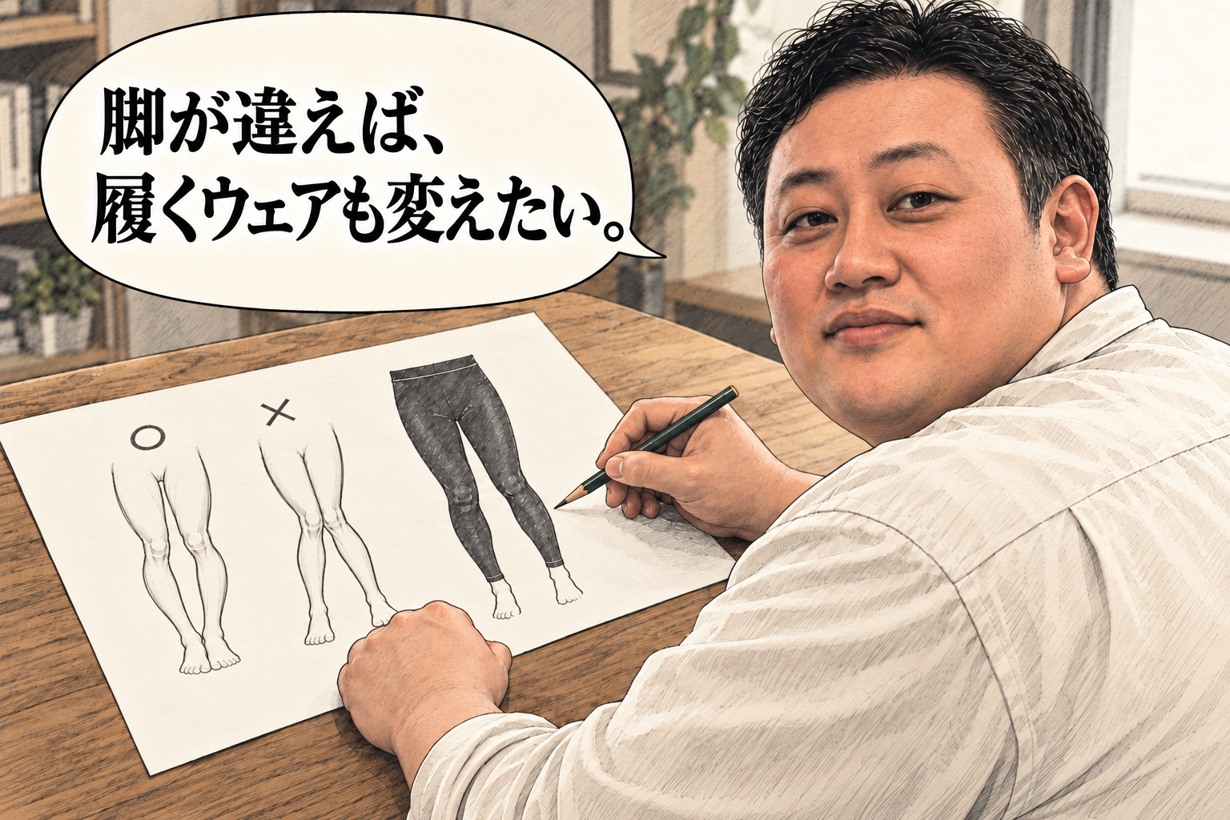
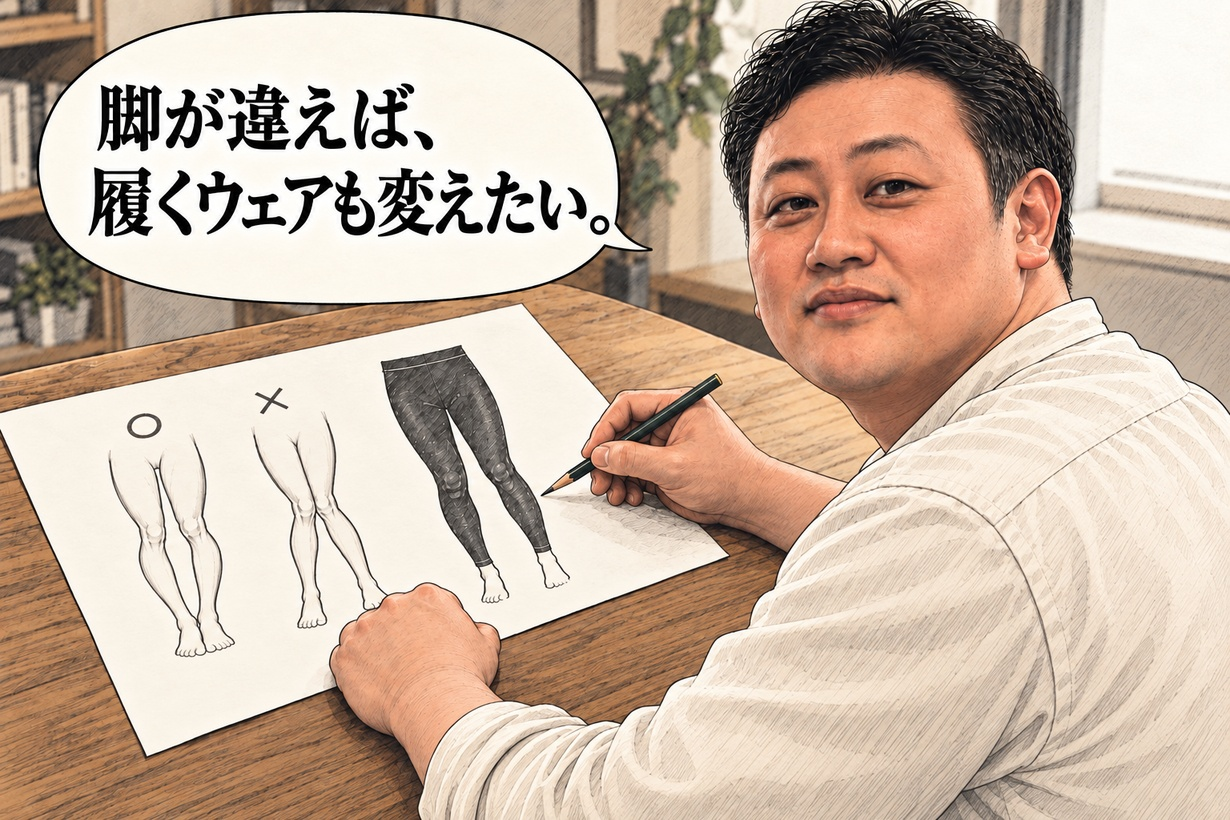
Refine founder likeness and emphasize preview headline

diff --git a/index.html b/index.html
@@ -1,1 +1,1 @@
-<!doctype html><html lang="ja"><head><meta charset="utf-8"><meta name="viewport" content="width=device-width,initial-scale=1"><meta name="robots" content="noindex,nofollow,noarchive"><title>O脚には、O脚のための設計を。解放テーピングスパッツ</title><link rel="stylesheet" href="style.css?v=v10-e3bf2f7"></head><body><div class="draft">確認用｜Makuake掲載イメージ案 </div><header class="site-header"><div><img class="makuake-logo" src="assets/makuake-logo.png?v=v10-e3bf2f7" alt="Makuake"><span>掲載プレビュー</span></div><a href="#returns">リターンを見る</a></header><main><div class="project-top"><div class="project-media"><img class="hero" src="submission/kv/01.jpg" alt="O脚じゃない人は見ないでください。解放テーピングスパッツ"><div class="gallery"><a href="submission/kv/01.jpg"><img src="submission/kv/01.jpg" alt="プロジェクト画像1"></a><a href="submission/kv/02.jpg"><img src="submission/kv/02.jpg" alt="プロジェクト画像2"></a><a href="submission/kv/03.jpg"><img src="submission/kv/03.jpg" alt="プロジェクト画像3"></a><a href="submission/kv/04.jpg?v=v10-e3bf2f7"><img src="submission/kv/04.jpg?v=v10-e3bf2f7" alt="プロジェクト画像4"></a><a href="submission/kv/05.jpg"><img src="submission/kv/05.jpg" alt="プロジェクト画像5"></a><a href="submission/kv/06.jpg"><img src="submission/kv/06.jpg" alt="プロジェクト画像6"></a></div></div><div class="project-summary"><div class="category">プロダクト　／　機能性ウェア</div><h1>O脚には、<span class="keep-phrase">O脚のための設計を。</span><br>解放テーピングスパッツ</h1><div class="tags"><span>＃テーピング</span><span>＃スポーツ</span><span>＃暮らし</span></div><div class="creator"><span class="creator-mark">K</span><div><small>プロジェクト実行者</small><b>KAIHOUz</b></div></div><a class="outline-link" href="#returns">リターンの内容を見る</a><p class="preview-note">掲載イメージの確認用です。応援購入は受け付けていません。</p></div></div><nav class="project-nav"><a class="current" href="#story">プロジェクト</a><a href="#origin">実行者の想い</a><a href="#returns">リターン</a></nav><div class="native" id="story"><h2>ストーリー</h2><ol><li><span>O脚・X脚に合わせた設計。<span class="keep-phrase">履くテーピングで、脚を支える。</span></span></li><li><span>貼る手間なく、履くだけ。<span class="keep-phrase">黒一色</span>で普段の服にもなじみ、運動や外出にも。</span></li><li><span>日本代表チームのサポートを経験。JOC医科学強化スタッフ・宮内政人氏が監修。</span></li></ol></div><article><section id="intro" class="section intro"><img class="full" src="submission/body-images/discovery-01.jpg" alt="O脚とX脚の形の違い。" loading="lazy"><div class="prose bridge"><h2>脚の形や動きに合わせて、<br>支え方も変わります。</h2><p>競技や施術の現場では、一人ひとりの脚に合わせてテーピングを行います。</p></div><img class="full" src="submission/body-images/sport-context.jpg" alt="競技場脇でトレーナーが選手にテーピングを行うイメージ。" loading="lazy"><img class="story expert-01" src="submission/body-images/expert-01.jpg" alt="トレーナーが男性の脚を見る。" loading="lazy"><img class="story expert-02" src="submission/body-images/expert-02.jpg" alt="脚にテープを沿わせて支える。" loading="lazy"><div class="prose bridge daily-bridge"><h2>でも、毎日の生活で<br>続けるとなると…</h2></div><img class="story work-late" src="submission/body-images/work-late.jpg" alt="仕事が延び、予約時刻に間に合わない。" loading="lazy"><img class="story tape-uncertain" src="submission/body-images/tape-uncertain.jpg" alt="自宅でテープを持つが、貼る位置が分からず手が止まる。" loading="lazy"><img class="full" src="submission/body-images/discovery-04.jpg" alt="その支え方を、履く一着に。解放テーピングスパッツ。" loading="lazy"></section><section id="o-design" class="section o-design"><img class="full" src="submission/body-images/structure.jpg" alt="テーピングの配置を光の線で可視化した構造図。" loading="lazy"><div class="prose"><p>O脚用とX脚用、それぞれの脚の形に合わせたテーピング設計。膝まわりだけでなく、脚全体を支えます。</p><p>段階着圧と吸水速乾を、一着に。いつもの服の下に履いて、普段使いにも運動にも。</p></div></section><section id="expert" class="section expert"><img class="full" src="submission/body-images/feature-04.jpg?v=v10-e3bf2f7" alt="JOC医科学強化スタッフ・宮内政人氏の写真と監修紹介。" loading="lazy"><div class="prose"><p>大宮名倉堂接骨院代表。日本オリンピック委員会（JOC）医科学強化スタッフとして、日本代表チームなどをサポートしてきました。</p><p>2026年度はスカッシュ日本代表の強化スタッフ（トレーナー）としても活動。その手技を求め、遠方から来院する方も多い宮内氏の知見を、脚の形に合わせた設計に生かしました。</p></div></section><section id="proof" class="section proof"><img class="full" src="submission/body-images/feature-05.jpg" alt="7歩の歩行距離、着用前329cmから着用後405cm、76cmの差。比較例。" loading="lazy"><div class="prose"><p>別の比較例では、7歩の歩行距離が482cmから569cmへ。87cmの差が見られました。前屈・立ち姿・脚のラインも、着用前後で比較しました。</p><p class="note">結果には個人差があります。</p></div><img class="full" src="submission/body-images/proof-01.jpg" alt="着用前後の身体の比較写真。" loading="lazy"><img class="full" src="submission/body-images/proof-02.jpg" alt="着用前後の身体の比較写真。" loading="lazy"><img class="full" src="submission/body-images/proof-03.jpg" alt="着用前後の身体の比較写真。" loading="lazy"><div class="prose"><h2>実際にご使用いただいた方の声</h2><p class="note">※事前モニター</p></div><img class="story voice-1" src="submission/body-images/voice-01.jpg" alt="提供された感想を場面で表した漫画。" loading="lazy"><img class="story voice-2" src="submission/body-images/voice-02.jpg" alt="提供された感想を場面で表した漫画。" loading="lazy"><img class="story voice-3" src="submission/body-images/voice-03.jpg" alt="提供された感想を場面で表した漫画。" loading="lazy"><img class="story voice-4" src="submission/body-images/voice-04.jpg" alt="提供された感想を場面で表した漫画。" loading="lazy"><div class="prose"><p class="note">個人の感想です。結果には個人差があります。人物はイメージです。</p></div></section><section id="origin" class="section origin"><div class="prose"><h2>テーピングに助けられた。<br>今度は、届けたい。</h2><figure class="founder-pair"><img src="submission/body-images/founder-past-present.jpg?v=v10-e3bf2f7" alt="長谷部純一氏。左は明治大学アメフト現役時代の実写、右は現在の本人をもとにした開発者イラスト。"></figure><p>昔から、身体を動かすことが好きでした。明治大学のアメリカンフットボール部ではラインマンとしてプレー。相手とぶつかり合い、足を踏ん張る毎日でした。</p></div><img class="story founder-cleats" src="submission/body-images/founder-cleats.jpg" alt="芝を踏みしめる競技時代の足元を表した回想イメージ。" loading="lazy"><img class="story founder-tape" src="submission/body-images/founder-tape.jpg?v=v10-e3bf2f7" alt="テーピングに支えられた経験を振り返る手元。" loading="lazy"><img class="story founder-silent" src="submission/body-images/founder-silent.jpg?v=v10-e3bf2f7" alt="長谷部氏が自分の膝に目を落とす静かな場面。" loading="lazy"><img class="story founder-thought" src="submission/body-images/founder-thought.jpg?v=v10-e3bf2f7" alt="テープと黒いウェアを手に、毎日使える支えを考える長谷部氏。" loading="lazy"><img class="story founder-design" src="submission/body-images/founder-design.jpg?v=v10-e3bf2f7" alt="脚の違いに合うウェアを考える長谷部氏。" loading="lazy"><div class="prose"><p>柔道整復師・宮内政人さんの監修のもと、O脚用とX脚用を製品化しました。スポーツも、休日の外出も、これから楽しみたいことがある。自分に合った支えを、もっと手軽に選べるようにしたい。そのための一着を、KAIHOUzから届けます。</p><p class="byline">KAIHOUz 代表 長谷部純一</p><p class="note">一部の場面はイメージです。</p></div></section><section id="wear" class="section wear"><div class="prose"><h2>履いて、整えて、出かけよう。</h2></div><img class="story" src="submission/body-images/wear-01.jpg" alt="黒いスパッツを片足ずつ通し、膝位置とシワを整えて出かける。" loading="lazy"><img class="story" src="submission/body-images/wear-02.jpg" alt="黒いスパッツを片足ずつ通し、膝位置とシワを整えて出かける。" loading="lazy"><img class="story" src="submission/body-images/wear-03.jpg" alt="黒いスパッツを片足ずつ通し、膝位置とシワを整えて出かける。" loading="lazy"><div class="prose"><p class="note">爪を立てず、少しずつ引き上げてください。使用時は取扱説明に従ってください。</p></div></section><section id="active" class="section active"><img class="full" src="submission/body-images/activities.jpg" alt="キャンプ、自転車、ジム。好きな時間を楽しむ男性のイメージ。" loading="lazy"></section><section id="selection" class="section selection"><img class="full" src="submission/body-images/selection.jpg" alt="O脚用とX脚用、それぞれ男性用と女性用。" loading="lazy"><div class="prose"><p>タイプの判断に迷う場合は、専門家へご相談ください。</p></div></section><section id="returns" class="section returns"><div class="prose"><h2>リターンを選ぶ</h2><p class="return-intro">O脚用・X脚用、それぞれ男性用・女性用から。</p></div><div class="return-grid"><div class="return-card"><img src="submission/return-images/return-1.jpg" alt="1枚セット、商品価格9,900円・税込"><div class="return-details"><h3>解放テーピングスパッツ 1枚セット</h3><p class="total"><small>送料・手数料込み</small><strong>11,220<span>円</span></strong></p><p>送料990円＋手数料330円</p><p class="return-type">O脚用 ／ X脚用<br>男性用 ／ 女性用</p></div></div><div class="return-card"><img src="submission/return-images/return-2.jpg" alt="2枚セット、商品価格14,850円・税込"><div class="return-details"><h3>解放テーピングスパッツ 2枚セット</h3><p class="total"><small>送料・手数料込み</small><strong>16,170<span>円</span></strong></p><p>送料990円＋手数料330円</p><p class="return-type">O脚用 ／ X脚用<br>男性用 ／ 女性用</p></div></div><div class="return-card"><img src="submission/return-images/return-3.jpg" alt="3枚セット、商品価格19,800円・税込"><div class="return-details"><h3>解放テーピングスパッツ 3枚セット</h3><p class="total"><small>送料・手数料込み</small><strong>21,120<span>円</span></strong></p><p>送料990円＋手数料330円</p><p class="return-type">O脚用 ／ X脚用<br>男性用 ／ 女性用</p></div></div></div><p class="return-saving">単品価格で同じ枚数を購入する場合に比べ、2枚セットは4,950円、3枚セットは9,900円お得です。</p></section><section class="closing"><img class="full" src="submission/body-images/closing.jpg" alt="その支えを、毎日の一着に。解放テーピングスパッツ。" loading="lazy"></section></article></main><footer><div class="footer-brand">KAIHOUz</div><p>解放テーピングスパッツ</p><div class="footer-links"><a href="#story">ストーリー</a><a href="#returns">リターン</a><a href="#origin">実行者の想い</a></div><p class="note">Makuake掲載イメージ案です。応援購入は受け付けていません。</p></footer></body></html>
+<!doctype html><html lang="ja"><head><meta charset="utf-8"><meta name="viewport" content="width=device-width,initial-scale=1"><meta name="robots" content="noindex,nofollow,noarchive"><title>O脚には、O脚のための設計を。解放テーピングスパッツ</title><link rel="stylesheet" href="style.css?v=v10-e3bf2f7"></head><body><div class="draft">確認用｜Makuake掲載イメージ案 </div><header class="site-header"><div><img class="makuake-logo" src="assets/makuake-logo.png?v=v10-e3bf2f7" alt="Makuake"><span>掲載プレビュー</span></div><a href="#returns">リターンを見る</a></header><main><div class="project-top"><div class="project-media"><img class="hero" src="submission/kv/01.jpg?v=v11" alt="O脚じゃない人は見ないでください。解放テーピングスパッツ"><div class="gallery"><a href="submission/kv/01.jpg?v=v11"><img src="submission/kv/01.jpg?v=v11" alt="プロジェクト画像1"></a><a href="submission/kv/02.jpg"><img src="submission/kv/02.jpg" alt="プロジェクト画像2"></a><a href="submission/kv/03.jpg?v=v11"><img src="submission/kv/03.jpg?v=v11" alt="プロジェクト画像3"></a><a href="submission/kv/04.jpg?v=v10-e3bf2f7"><img src="submission/kv/04.jpg?v=v10-e3bf2f7" alt="プロジェクト画像4"></a><a href="submission/kv/05.jpg"><img src="submission/kv/05.jpg" alt="プロジェクト画像5"></a><a href="submission/kv/06.jpg"><img src="submission/kv/06.jpg" alt="プロジェクト画像6"></a></div></div><div class="project-summary"><div class="category">プロダクト　／　機能性ウェア</div><h1>O脚には、<span class="keep-phrase">O脚のための設計を。</span><br>解放テーピングスパッツ</h1><div class="tags"><span>＃テーピング</span><span>＃スポーツ</span><span>＃暮らし</span></div><div class="creator"><span class="creator-mark">K</span><div><small>プロジェクト実行者</small><b>KAIHOUz</b></div></div><a class="outline-link" href="#returns">リターンの内容を見る</a><p class="preview-note">掲載イメージの確認用です。応援購入は受け付けていません。</p></div></div><nav class="project-nav"><a class="current" href="#story">プロジェクト</a><a href="#origin">実行者の想い</a><a href="#returns">リターン</a></nav><div class="native" id="story"><h2>ストーリー</h2><ol><li><span>O脚・X脚に合わせた設計。<span class="keep-phrase">履くテーピングで、脚を支える。</span></span></li><li><span>貼る手間なく、履くだけ。<span class="keep-phrase">黒一色</span>で普段の服にもなじみ、運動や外出にも。</span></li><li><span>日本代表チームのサポートを経験。JOC医科学強化スタッフ・宮内政人氏が監修。</span></li></ol></div><article><section id="intro" class="section intro"><img class="full" src="submission/body-images/discovery-01.jpg" alt="O脚とX脚の形の違い。" loading="lazy"><div class="prose bridge"><h2>脚の形や動きに合わせて、<br>支え方も変わります。</h2><p>競技や施術の現場では、一人ひとりの脚に合わせてテーピングを行います。</p></div><img class="full" src="submission/body-images/sport-context.jpg" alt="競技場脇でトレーナーが選手にテーピングを行うイメージ。" loading="lazy"><img class="story expert-01" src="submission/body-images/expert-01.jpg" alt="トレーナーが男性の脚を見る。" loading="lazy"><img class="story expert-02" src="submission/body-images/expert-02.jpg" alt="脚にテープを沿わせて支える。" loading="lazy"><div class="prose bridge daily-bridge"><h2>でも、毎日の生活で<br>続けるとなると…</h2></div><img class="story work-late" src="submission/body-images/work-late.jpg" alt="仕事が延び、予約時刻に間に合わない。" loading="lazy"><img class="story tape-uncertain" src="submission/body-images/tape-uncertain.jpg" alt="自宅でテープを持つが、貼る位置が分からず手が止まる。" loading="lazy"><img class="full" src="submission/body-images/discovery-04.jpg" alt="その支え方を、履く一着に。解放テーピングスパッツ。" loading="lazy"></section><section id="o-design" class="section o-design"><img class="full" src="submission/body-images/structure.jpg" alt="テーピングの配置を光の線で可視化した構造図。" loading="lazy"><div class="prose"><p>O脚用とX脚用、それぞれの脚の形に合わせたテーピング設計。膝まわりだけでなく、脚全体を支えます。</p><p>段階着圧と吸水速乾を、一着に。いつもの服の下に履いて、普段使いにも運動にも。</p></div></section><section id="expert" class="section expert"><img class="full" src="submission/body-images/feature-04.jpg?v=v10-e3bf2f7" alt="JOC医科学強化スタッフ・宮内政人氏の写真と監修紹介。" loading="lazy"><div class="prose"><p>大宮名倉堂接骨院代表。日本オリンピック委員会（JOC）医科学強化スタッフとして、日本代表チームなどをサポートしてきました。</p><p>2026年度はスカッシュ日本代表の強化スタッフ（トレーナー）としても活動。その手技を求め、遠方から来院する方も多い宮内氏の知見を、脚の形に合わせた設計に生かしました。</p></div></section><section id="proof" class="section proof"><img class="full" src="submission/body-images/feature-05.jpg" alt="7歩の歩行距離、着用前329cmから着用後405cm、76cmの差。比較例。" loading="lazy"><div class="prose"><p>別の比較例では、7歩の歩行距離が482cmから569cmへ。87cmの差が見られました。前屈・立ち姿・脚のラインも、着用前後で比較しました。</p><p class="note">結果には個人差があります。</p></div><img class="full" src="submission/body-images/proof-01.jpg" alt="着用前後の身体の比較写真。" loading="lazy"><img class="full" src="submission/body-images/proof-02.jpg" alt="着用前後の身体の比較写真。" loading="lazy"><img class="full" src="submission/body-images/proof-03.jpg" alt="着用前後の身体の比較写真。" loading="lazy"><div class="prose"><h2>実際にご使用いただいた方の声</h2><p class="note">※事前モニター</p></div><img class="story voice-1" src="submission/body-images/voice-01.jpg" alt="提供された感想を場面で表した漫画。" loading="lazy"><img class="story voice-2" src="submission/body-images/voice-02.jpg" alt="提供された感想を場面で表した漫画。" loading="lazy"><img class="story voice-3" src="submission/body-images/voice-03.jpg" alt="提供された感想を場面で表した漫画。" loading="lazy"><img class="story voice-4" src="submission/body-images/voice-04.jpg" alt="提供された感想を場面で表した漫画。" loading="lazy"><div class="prose"><p class="note">個人の感想です。結果には個人差があります。人物はイメージです。</p></div></section><section id="origin" class="section origin"><div class="prose"><h2>テーピングに助けられた。<br>今度は、届けたい。</h2><figure class="founder-pair"><img src="submission/body-images/founder-past-present.jpg?v=v11" alt="長谷部純一氏。左は明治大学アメフト現役時代の実写、右は現在の本人をもとにした開発者イラスト。"></figure><p>昔から、身体を動かすことが好きでした。明治大学のアメリカンフットボール部ではラインマンとしてプレー。相手とぶつかり合い、足を踏ん張る毎日でした。</p></div><img class="story founder-cleats" src="submission/body-images/founder-cleats.jpg" alt="芝を踏みしめる競技時代の足元を表した回想イメージ。" loading="lazy"><img class="story founder-tape" src="submission/body-images/founder-tape.jpg?v=v11" alt="テーピングに支えられた経験を振り返る手元。" loading="lazy"><img class="story founder-silent" src="submission/body-images/founder-silent.jpg?v=v11" alt="長谷部氏が自分の膝に目を落とす静かな場面。" loading="lazy"><img class="story founder-thought" src="submission/body-images/founder-thought.jpg?v=v11" alt="テープと黒いウェアを手に、毎日使える支えを考える長谷部氏。" loading="lazy"><img class="story founder-design" src="submission/body-images/founder-design.jpg?v=v11" alt="脚の違いに合うウェアを考える長谷部氏。" loading="lazy"><div class="prose"><p>柔道整復師・宮内政人さんの監修のもと、O脚用とX脚用を製品化しました。スポーツも、休日の外出も、これから楽しみたいことがある。自分に合った支えを、もっと手軽に選べるようにしたい。そのための一着を、KAIHOUzから届けます。</p><p class="byline">KAIHOUz 代表 長谷部純一</p><p class="note">一部の場面はイメージです。</p></div></section><section id="wear" class="section wear"><div class="prose"><h2>履いて、整えて、出かけよう。</h2></div><img class="story" src="submission/body-images/wear-01.jpg" alt="黒いスパッツを片足ずつ通し、膝位置とシワを整えて出かける。" loading="lazy"><img class="story" src="submission/body-images/wear-02.jpg" alt="黒いスパッツを片足ずつ通し、膝位置とシワを整えて出かける。" loading="lazy"><img class="story" src="submission/body-images/wear-03.jpg" alt="黒いスパッツを片足ずつ通し、膝位置とシワを整えて出かける。" loading="lazy"><div class="prose"><p class="note">爪を立てず、少しずつ引き上げてください。使用時は取扱説明に従ってください。</p></div></section><section id="active" class="section active"><img class="full" src="submission/body-images/activities.jpg" alt="キャンプ、自転車、ジム。好きな時間を楽しむ男性のイメージ。" loading="lazy"></section><section id="selection" class="section selection"><img class="full" src="submission/body-images/selection.jpg" alt="O脚用とX脚用、それぞれ男性用と女性用。" loading="lazy"><div class="prose"><p>タイプの判断に迷う場合は、専門家へご相談ください。</p></div></section><section id="returns" class="section returns"><div class="prose"><h2>リターンを選ぶ</h2><p class="return-intro">O脚用・X脚用、それぞれ男性用・女性用から。</p></div><div class="return-grid"><div class="return-card"><img src="submission/return-images/return-1.jpg" alt="1枚セット、商品価格9,900円・税込"><div class="return-details"><h3>解放テーピングスパッツ 1枚セット</h3><p class="total"><small>送料・手数料込み</small><strong>11,220<span>円</span></strong></p><p>送料990円＋手数料330円</p><p class="return-type">O脚用 ／ X脚用<br>男性用 ／ 女性用</p></div></div><div class="return-card"><img src="submission/return-images/return-2.jpg" alt="2枚セット、商品価格14,850円・税込"><div class="return-details"><h3>解放テーピングスパッツ 2枚セット</h3><p class="total"><small>送料・手数料込み</small><strong>16,170<span>円</span></strong></p><p>送料990円＋手数料330円</p><p class="return-type">O脚用 ／ X脚用<br>男性用 ／ 女性用</p></div></div><div class="return-card"><img src="submission/return-images/return-3.jpg" alt="3枚セット、商品価格19,800円・税込"><div class="return-details"><h3>解放テーピングスパッツ 3枚セット</h3><p class="total"><small>送料・手数料込み</small><strong>21,120<span>円</span></strong></p><p>送料990円＋手数料330円</p><p class="return-type">O脚用 ／ X脚用<br>男性用 ／ 女性用</p></div></div></div><p class="return-saving">単品価格で同じ枚数を購入する場合に比べ、2枚セットは4,950円、3枚セットは9,900円お得です。</p></section><section class="closing"><img class="full" src="submission/body-images/closing.jpg" alt="その支えを、毎日の一着に。解放テーピングスパッツ。" loading="lazy"></section></article></main><footer><div class="footer-brand">KAIHOUz</div><p>解放テーピングスパッツ</p><div class="footer-links"><a href="#story">ストーリー</a><a href="#returns">リターン</a><a href="#origin">実行者の想い</a></div><p class="note">Makuake掲載イメージ案です。応援購入は受け付けていません。</p></footer></body></html>
